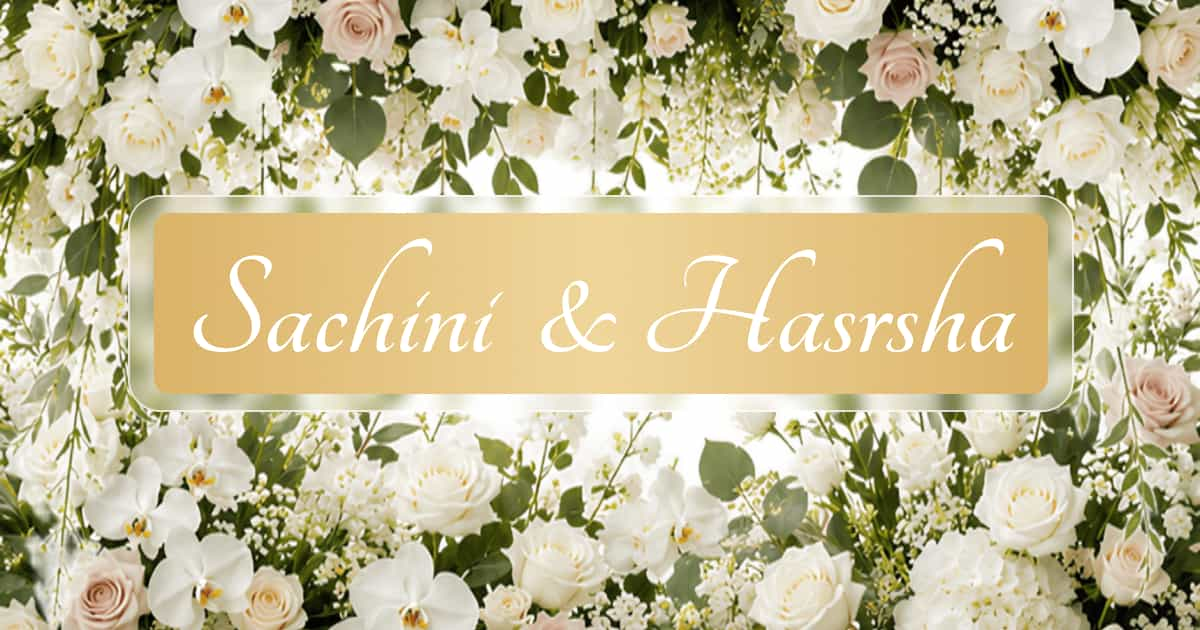
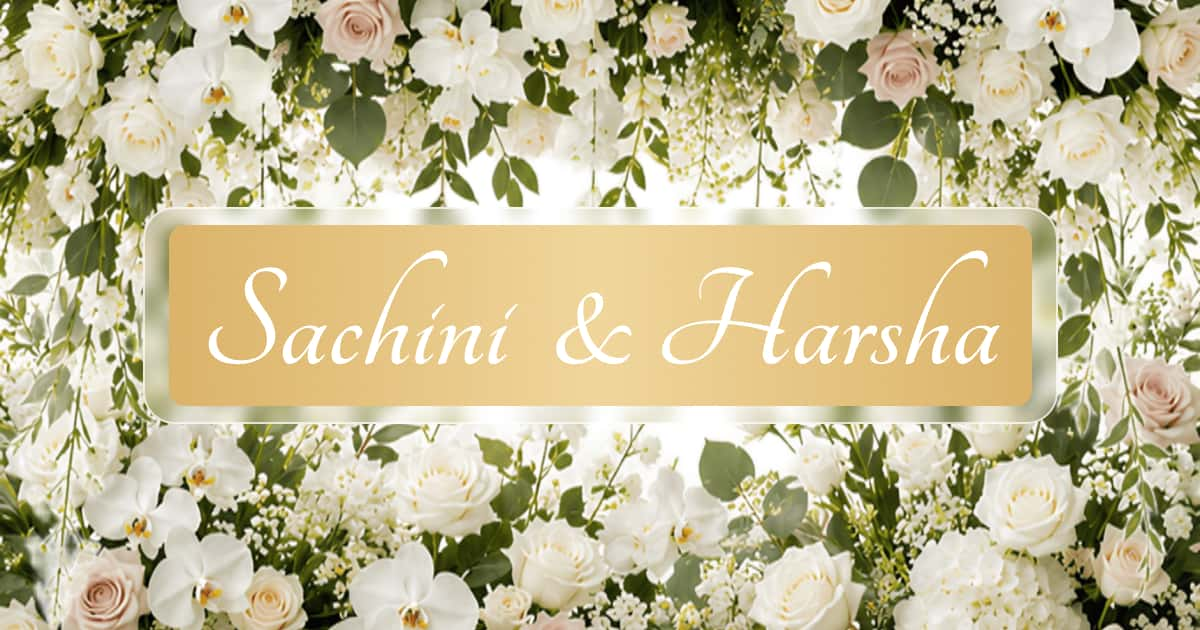
final

Changed region(s): [[0.0925, 0.3016, 0.8942, 0.6937]]

diff --git a/src/app/components/TimelineSection.jsx b/src/app/components/TimelineSection.jsx
@@ -24,14 +24,14 @@ const MILESTONES = [
     date: "2023 — 2026",
     title: "Growing Together",
     description:
-      "From little moments to big memories, we grew closer, one day at a time. Somewhere along the way, you became my favourite part of every day..",
+      "From little moments to beautiful memories, we grew closer, laughed together, and made every day a part of our story.",
   },
   {
     icon: "💍",
-    date: "Feb 2026",
+    date: "Jun 2026",
     title: "The Proposal",
     description:
-      "One day, I stopped wondering where life would take us. I just knew who I wanted beside me for every tomorrow that followed.",
+      "After all the memories we shared, we knew we wanted to spend every tomorrow together.",
   },
 ];
 
